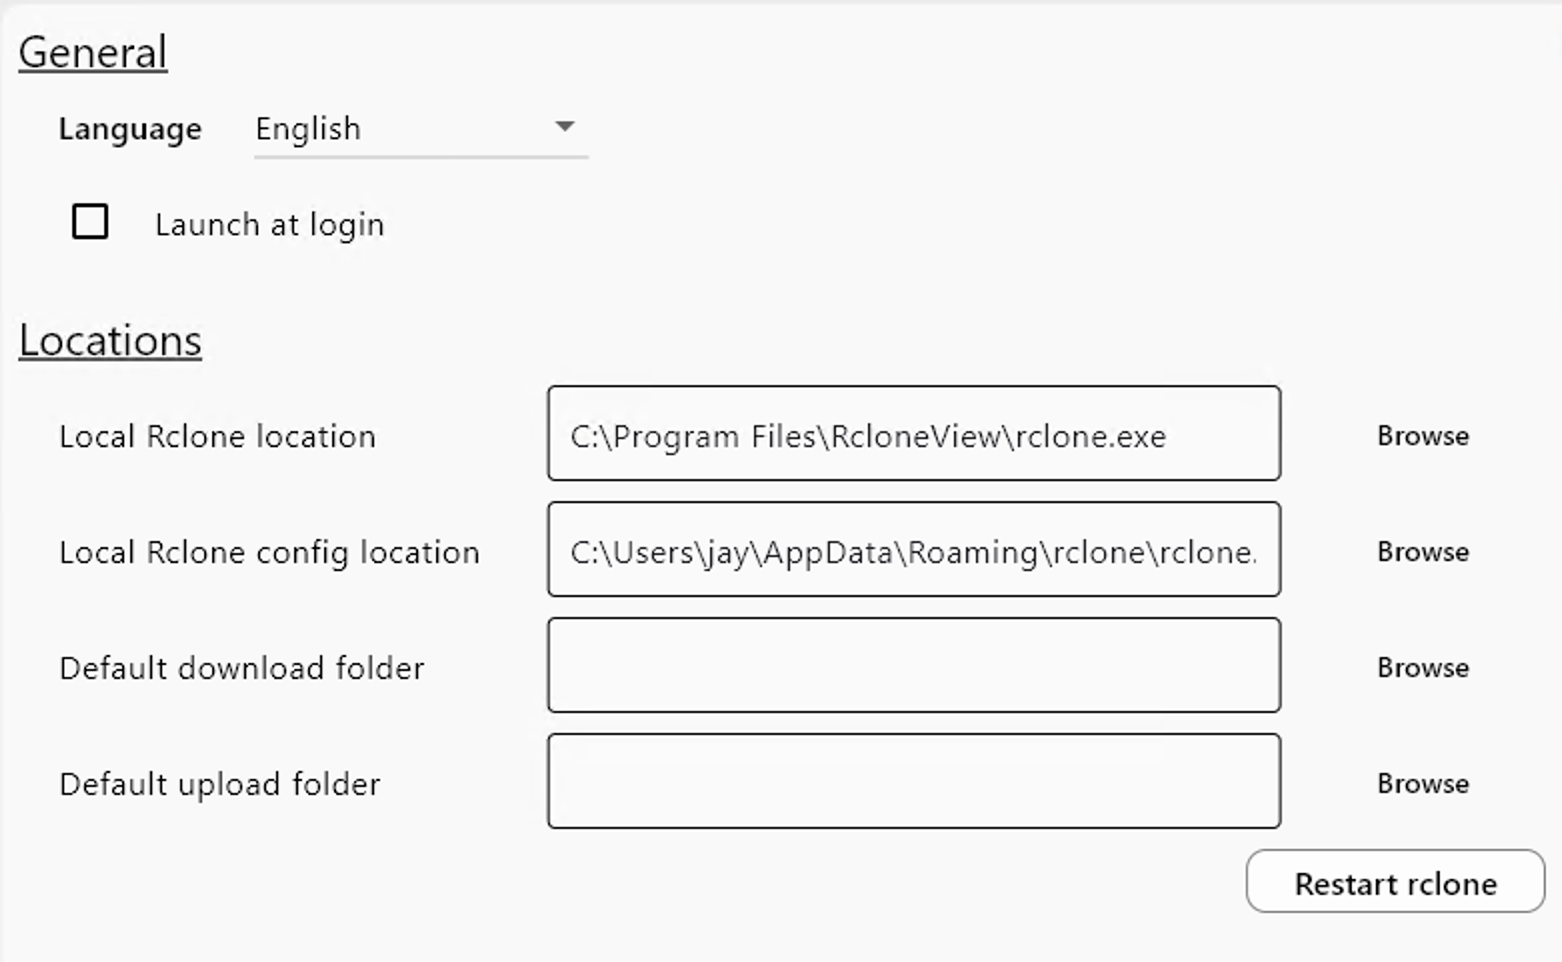
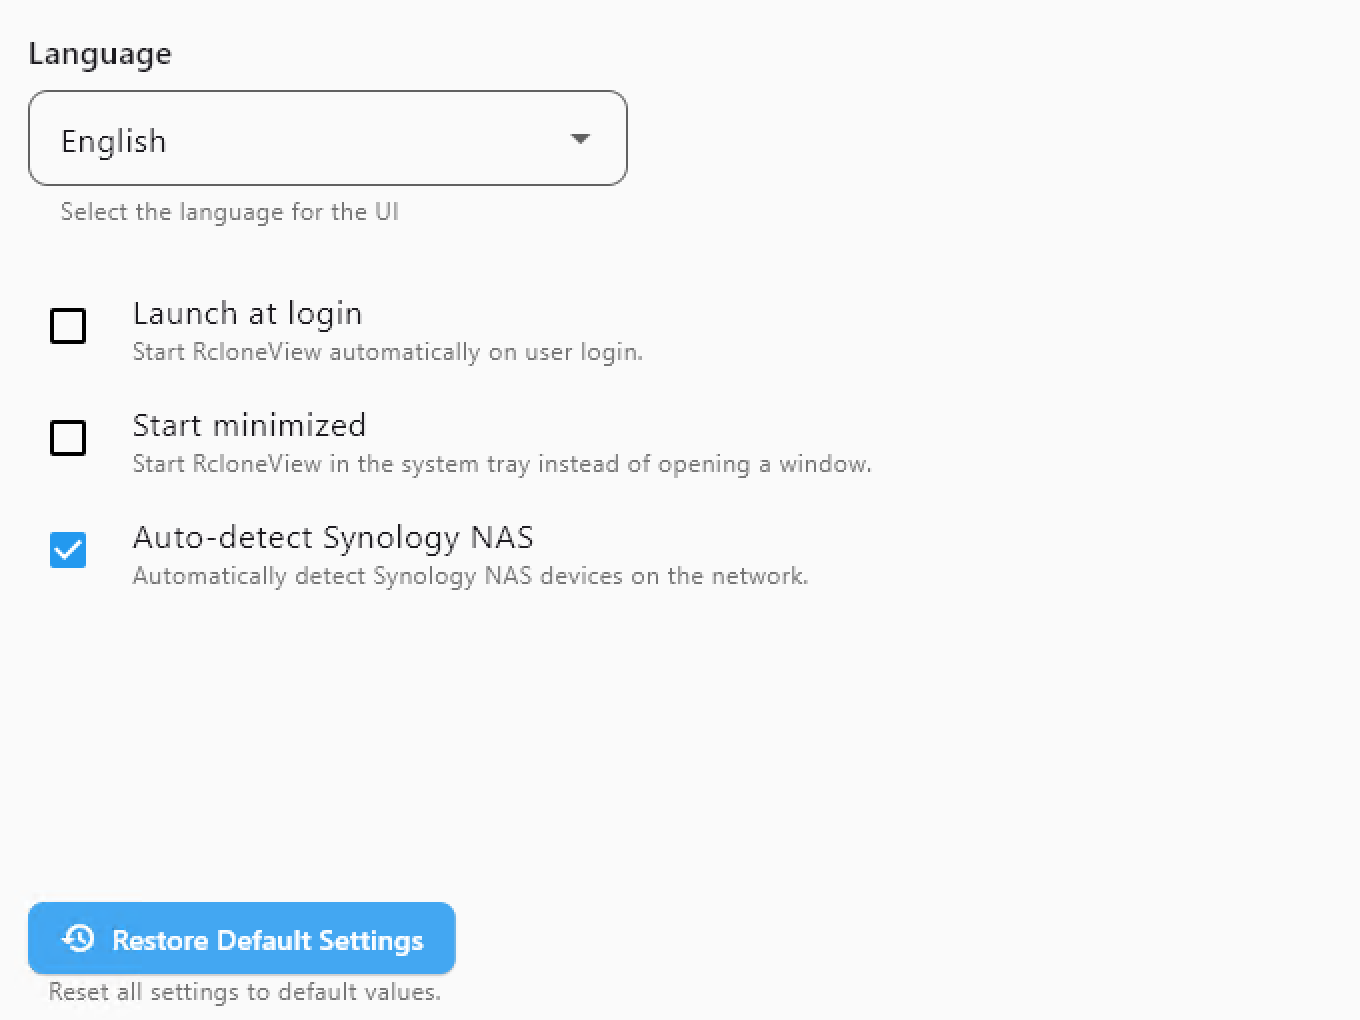
general settings. quick start guide 변경.

diff --git a/en/howto/rcloneview-basic/general-settings.md b/en/howto/rcloneview-basic/general-settings.md
@@ -1,6 +1,6 @@
 ---
 sidebar_position: 10
-description: Learn how to configure general preferences, interface layout, paths, and embedded Rclone settings in RcloneView.
+description: Learn how to configure general preferences, interface layout, Notifications, and embedded Rclone settings in RcloneView.
 keywords:
   - rcloneview
   - rclone
@@ -19,15 +19,27 @@ author: Jay
 ---
 # General Settings
 
-RcloneView's **Settings** page allows you to configure language, paths, logging options, and interface preferences. This guide explains each section and its functionality.
+RcloneView's **Settings** menu is divided into four tabs for better clarity and customization:
 
-## General Options
+- **General**
+- **Interfaces & Notifications**
+- **Embedded Rclone**
+- **Network & Misc.**
+
+Each tab allows you to configure different parts of the application. Below is a breakdown of each section.
+
+---
+
+## 🛠 General
 
 <img src="/support/images/en/howto/rcloneview-basic/general-settings.png" alt="general settings" class="img-medium img-center" />
+### Language
 
-- **Language**: Select your preferred language for the RcloneView user interface.  
+- **Language**: Choose your preferred UI language from the dropdown.
 
-- **Launch at login**: When enabled, RcloneView will automatically start when the user logs into the system.
+### Startup Behavior
+
+- **Launch at login**: Automatically starts RcloneView when you log into your system.
 
 :::important Auto Start: Scheduling and Mounting
 
@@ -37,67 +49,102 @@ When **Launch at login** is enabled:
 - Any remotes configured for auto-mounting in the [**Mount Manager**](./mount-cloud-storage-as-a-local-drive.md#method-1-mount-from-remote-explorer) will be mounted automatically when RcloneView starts.  
 :::
 
-### Locations
-Specify the locations for key components:
+- **Start minimized**: Launches RcloneView into the system tray.
 
-- **Local Rclone location**: Path to the `rclone` binary.
-- **Local Rclone config location**: Path to `rclone.conf`, where remote definitions are stored.
-- **Default download folder**: Folder used for downloads from remote to local.
-- **Default upload folder**: Folder used as the source for uploads to remote.
+- **Auto-detect Synology NAS**: Automatically scan the local network for Synology NAS devices.
 
-:::caution Restart rclone Required to Apply Location Changes
+### Reset
 
-Click **`Restart rclone`** to apply any changes made to the location settings.  
-This will restart the embedded Rclone instance and may interrupt any currently running jobs.  
-
-:::
-
-## Interface Preferences
-
-<img src="/support/images/en/howto/rcloneview-basic/interface-settings.png" alt="interface settings" class="img-medium img-center" />
-Customize how the interface behaves:
-
-- **Dark mode**: Enable dark theme.
-- **Theme color**: Choose from predefined accent colors.
-- **Confirm drag and drop**: Prompts confirmation when dragging files.
-- **Jobs view items**: Show or hide job types: Download, Upload, Sync.
-- **Show job state log**: Notify dialog to displays logs for each job execution.
-- **Show comparison completed**: Alerts dialog when folder comparison finishes.
-- **Show confirmation dialog before deleting files in compare**: Confirm dialog to add extra safety before deletion.
-- **Show sync completion notification**: Notify dialog when sync job completes.
-- **Show network error dialog**: Alert dialog for network failures.
-
-## Embedded Rclone Configuration
-
-<img src="/support/images/en/howto/rcloneview-basic/embedded-rclone-settings.png" alt="embedded rclone settings" class="img-medium img-center" />
-- **Stop embedded rclone with RcloneView**: Terminates the rclone process when RcloneView closes.
-- **Enable embedded rclone log**: Enables logging for embedded rclone operations.
-	Logging options:  
-	- **Log folder**: Path where log files are saved.  
-	- **Log file name**: Customize the filename for rclone logs.  
-	- **Log level**: Choose from standard rclone log levels (DEBUG, INFO, NOTICE, ERROR).  
-
-Advanced options:  
-- **Rclone global flags**: Enter any global rclone flags (e.g. `--no-check-certificate`).  
-- **Rclone config password**: Password for encrypted rclone configurations. If you set this password, then rclone config files will be encrypted.  
-
-:::caution Restart rclone Required to Apply Embedded Rclone Settings
-
-Click **`Restart rclone`** to apply any changes made to the Embedded Rclone settings.  
-This will restart the embedded Rclone instance and may interrupt any currently running jobs.  
-
-:::
-
-## Network & Logs
-
-<img src="/support/images/en/howto/rcloneview-basic/network-etc-settings.png" alt="network etc settings" class="img-medium img-center" />
-### Network
-- **`Proxy settings`**: Features coming soon.
-- **`Rclone connection manager`**: Open [**Connection Manager**](./connection-manager.md)
-
-### Etc
-- **`Application Log`**: Open log viewer for app-level logs.
-
-- **`Restore Settings`**: Reset all settings to default values.
+- **Restore Default Settings**: Resets all options to their original default values.
 
 ---
+
+## 🎛  Interfaces & Notifications
+
+<img src="/support/images/en/howto/rcloneview-basic/interface-settings.png" alt="interface settings" class="img-medium img-center" />
+### UI Appearance
+
+- **Dark mode**: Toggle between light and dark themes.
+- **Theme color**: Choose from available accent colors.
+
+### Drag and Drop
+
+- **Confirm drag and drop**: Enables a confirmation popup when moving files via drag-and-drop.
+
+### Show Job Types (Transfer Log Filters)
+
+Select which types of jobs to display in the Transfer Log panel:
+- **Download**
+- **Upload**
+- **Sync**
+
+<img src="/support/images/en/howto/rcloneview-basic/notification-dialogs-settings.png" alt="notification dialogs settings" class="img-medium img-center" />
+### Notification Dialogs
+
+Decide which types of pop-up notifications you'd like to receive while using RcloneView:
+
+- **Show job state log**: Display a detailed log dialog after each transfer job finishes.
+- **Show comparison completed**: Notify when a folder comparison task has completed successfully.
+- **Show confirmation before deleting files in compare**: Ask for confirmation before deleting any files during folder comparison.
+- **Show sync completion notification**: Show a message when a sync operation finishes.
+- **Show network error dialog**: Alert you immediately if a network connection error occurs during a job.
+
+---
+
+## ⚙ Embedded Rclone
+
+<img src="/support/images/en/howto/rcloneview-basic/embedded-rclone-settings.png" alt="embedded rclone settings" class="img-medium img-center" />
+
+### Embedded Lifecycle
+
+- **Stop rclone on App Exit**: Automatically shuts down the embedded `rclone` process when RcloneView is closed.
+
+:::caution Restart Required After Any Changes
+
+After modifying any setting in the **Embedded Rclone** tab — including path configuration, global flags, or logging options — click **Restart Embedded Rclone** to apply the changes.  
+This will restart the embedded Rclone process and may interrupt any currently running jobs.
+
+:::
+### Path Settings
+
+- **Local Rclone location**: Absolute path to your `rclone` binary.
+- **Local Rclone config location**: Path to your `rclone.conf` file (contains remote info).
+- **Default download folder**: Directory where downloaded files will be saved.
+- **Default upload folder**: Directory used as the source for upload jobs.
+
+   <img src="/support/images/en/howto/rcloneview-basic/embedded-rclone-advanced-options-settings.png" alt="embedded rclone advanced options settings" class="img-medium img-center" />
+### Advanced Options
+
+- **Global Rclone Flags**: Additional flags to pass to rclone (e.g., `--s3-directory-markers`).
+- **Config Password**: Password for encrypted rclone configurations. If you set this password, then rclone config files will be encrypted.
+
+<img src="/support/images/en/howto/rcloneview-basic/embedded-rclone-logging-configuration-settings.png" alt="embedded rclone logging configuration settings" class="img-medium img-center" />
+### Logging Configuration
+
+- **Enable rclone Logging**: Activate file-based logging for Rclone operations.
+- **Log folder**: Directory to store log files.
+- **Log file name**: Default filename for logs.
+- **Log level**: Choose verbosity level (DEBUG, INFO, NOTICE, ERROR).
+
+---
+
+## 🌐 Network & Misc
+
+<img src="/support/images/en/howto/rcloneview-basic/network-etc-settings.png" alt="network etc settings" class="img-medium img-center" />
+
+### Network
+
+- **Proxy settings**: Configure proxy (feature coming soon).
+- **Rclone connection manager**: View or manage active Rclone connections.  
+  → [Read more](./connection-manager.md)
+
+### Diagnostics
+
+- **Application Log**: Opens internal logs to aid troubleshooting or bug reporting.
+
+---
+
+## ✅ Summary
+
+These settings allow you to fully control how RcloneView behaves at startup, how it interfaces with Rclone, and how it communicates job results or errors to you. Adjust them to match your workflow, whether you're scheduling syncs, automounting drives, or troubleshooting network issues.
+

diff --git a/en/howto/intro.md b/en/howto/intro.md
@@ -41,18 +41,17 @@ This guide will walk you step-by-step through installing **RcloneView** and addi
 <img src="/support/images/howto/add-new-remote.png" alt="add new remote" class="img-medium img-center" />
 ### Adding Google Drive Remote
 
-#### In the **`Provider`** tab:
-
 1. Enter **`google`** in the search bar.
 2. Select **`Google Drive`** from the results.
-3. Click **`Next`**.
-#### In the **`Options`** tab:
+3. Enter a recognizable **`Remote name`** (e.g., MyGoogleDrive).
+4. click **`Add Remote`** to finish adding the remote.
 
-4. Usually, you can skip this step by directly clicking **`Next`** unless you have specific configurations.
-
+:::tip
+Fields marked with an asterisk (*) are required. Ensure all mandatory fields are completed before saving.
+:::
 <div class="img-grid-2">
-<img src="/support/images/howto/new-remote-step1.png" alt="Add new google remote" class="img-medium img-center" />
-<img src="/support/images/howto/add-remote-step2.png" alt="Add google drive option" class="img-medium img-center" />
+<img src="/support/images/en/howto/new-remote-step1.png" alt="new remote step1" class="img-medium img-center" />
+<img src="/support/images/en/howto/add-remote-step2.png" alt="add remote step2" class="img-medium img-center" />
 </div>
 
 :::tip OAuth-based Cloud Remotes
@@ -67,24 +66,6 @@ However, **some providers require additional configuration** in the `Options` ta
 - **Box for Business** – Select `enterprise` for box_sub_type
 
 👉 See guide: [Connect via Web Browser Login](./remote-storage-connection-settings/add-oath-online-login.md#supported-cloud-providers--setup-requirements)
-:::
-
-#### In the **`Name`** tab:
-
-5. Enter a recognizable **`Remote name`** (e.g., MyGoogleDrive).
-6. Click **`Next`**.
-
-#### In the **`Save`** tab:
-
-7. Review your settings and click **`Save`** to finish adding the remote.
-
-<div class="img-grid-2">
-<img src="/support/images/howto/add-remote-step3.png" alt="add google drive step3" class="img-medium img-center" />
-<img src="/support/images/howto/add-remote-step4.png" alt="add google drive step4" class="img-medium img-center" />
-</div>
-
-:::tip
-Fields marked with an asterisk (*) are required. Ensure all mandatory fields are completed before saving.
 :::
 
 ## **Step 3: Connecting Your Remote Storage (GoogleDrive Single Sign-On)**
